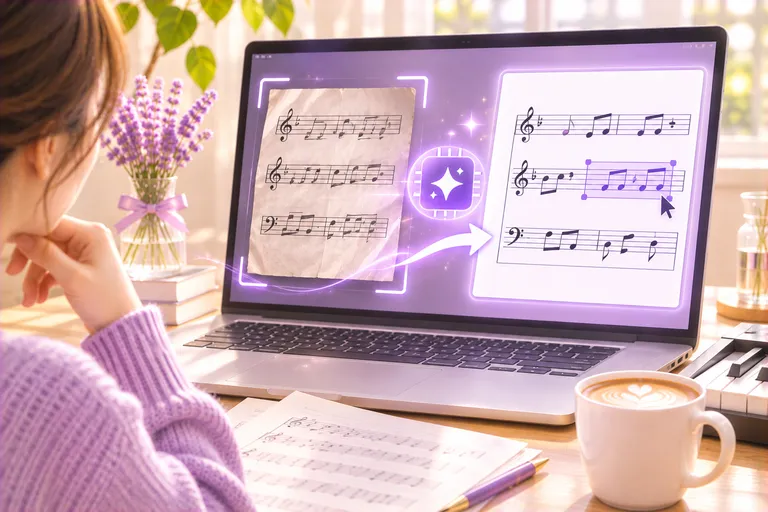
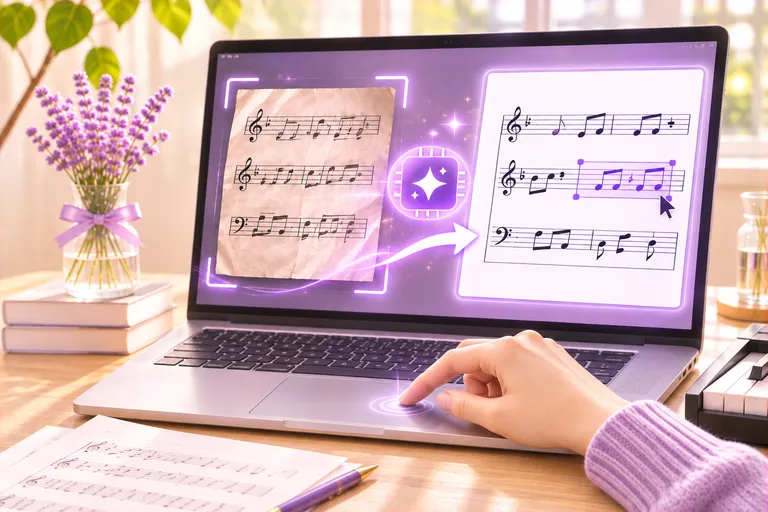
악보 인식·저작권 등록 노트 대표 이미지 다시 교체(?v=1122c) [skip netlify]
Claude-Session: https://claude.ai/code/session_011a17cx1dpy8tGs1Hnq7wi8

diff --git a/index.html b/index.html
@@ -729,7 +729,7 @@ a.note:hover,.note.live:hover{transform:translateY(-2px);border-color:var(--viol
   <div class="notes-bar">
     <div class="note-tabs" role="group" aria-label="노트 분류"></div>
   </div>
-  <div id="noteList"><div class="notes"><article class="note live"><img class="thumb" src="img/note-ai-news-2026-11-3-768.webp?v=1122b" width="768" height="512" loading="lazy" alt="책상 위 여러 기기 화면에 이번 주 AI 소식을 상징하는 아이콘들"><div class="meta"><span class="cat">AI 뉴스 브리핑</span><span>2026.11.23</span></div><h3><a href="notes/ai-news-2026-11-3.html">이번 주 AI 소식 5가지</a></h3><p>2026년 11월 셋째 주, 제미나이 태스크 한국 무료부터 챗GPT 스페이스·라이브 받아쓰기, 모바일 새 화면, 앤트로픽 상장까지 공식 발표 기준으로 정리합니다.</p><div class="foot"><span class="go">노트 읽기 →</span><button type="button" class="more-btn" data-cat="AI 뉴스 브리핑">지난 노트 <b>8</b>편</button></div></article><article class="note live"><img class="thumb" src="img/note-gemini-tasks-free-768.webp?v=1122b" width="768" height="512" loading="lazy" alt="AI 로봇에게 일을 맡기고 쉬는 뒷모습"><div class="meta"><span class="cat">AI 활용 노하우</span><span>2026.11.23</span></div><h3><a href="notes/gemini-tasks-free.html">제미나이 태스크 무료로 쓰는 법, 무엇을 맡길 수 있나</a></h3><p>한국에서도 무료가 된 제미나이 태스크의 조건, 시작 순서, 미국 먼저인 기능, 결제·개인정보 주의점을 정리합니다.</p><div class="foot"><span class="go">노트 읽기 →</span><button type="button" class="more-btn" data-cat="AI 활용 노하우">지난 노트 <b>4</b>편</button></div></article><article class="note live"><img class="thumb" src="img/note-suno-visuals-768.webp?v=1122b" width="768" height="512" loading="lazy" alt="음표가 흘러가 노을 바닷가 영상이 되는 노트북 화면"><div class="meta"><span class="cat">AI 음악 만들기</span><span>2026.11.23</span></div><h3><a href="notes/suno-visuals.html">수노(Suno) Visuals, 내 노래로 15초 영상 만드는 법</a></h3><p>노래로 15초 영상·가사 영상·앨범 아트를 만드는 순서, 따로 드는 Visuals 크레딧과 저작권 장치를 수노 공식 발표 기준으로 정리합니다.</p><div class="foot"><span class="go">노트 읽기 →</span><button type="button" class="more-btn" data-cat="AI 음악 만들기">지난 노트 <b>3</b>편</button></div></article><article class="note live"><img class="thumb" src="img/note-ai-skin-analysis-768.webp?v=1122b" width="768" height="512" loading="lazy" alt="조명에 따라 점수가 달라지는 피부 분석 화면(얼굴은 흐림)"><div class="meta"><span class="cat">뷰티 × AI</span><span>2026.11.23</span></div><h3><a href="notes/ai-skin-analysis.html">AI 피부 분석 앱, 어디까지 믿을 수 있나</a></h3><p>피부 점수가 보는 항목, 식약처 기준으로 본 의료기기와 관리 앱의 경계, 결과가 흔들리는 이유와 잘 쓰는 법을 정리합니다.</p><div class="foot"><span class="go">노트 읽기 →</span><button type="button" class="more-btn" data-cat="뷰티 × AI">지난 노트 <b>3</b>편</button></div></article><article class="note live"><img class="thumb" src="img/note-sheet-music-omr-768.webp?v=1122b" width="768" height="512" loading="lazy" alt="낡은 종이 악보가 AI로 편집 가능한 디지털 악보로 바뀌는 화면"><div class="meta"><span class="cat">반주 · 피아노 × AI</span><span>2026.11.23</span></div><h3><a href="notes/sheet-music-omr.html">PDF 악보를 편집할 수 있는 악보로, AI 악보 인식(OMR) 정리</a></h3><p>뮤즈스코어 PDF 가져오기·오디베리스·플레이스코어 2·사운드슬라이스 비교와 변환 순서, 검수·저작권 주의점을 정리합니다.</p><div class="foot"><span class="go">노트 읽기 →</span><button type="button" class="more-btn" data-cat="반주 · 피아노 × AI">지난 노트 <b>3</b>편</button></div></article><article class="note live"><img class="thumb" src="img/note-ai-copyright-registration-768.webp?v=1122b" width="768" height="512" loading="lazy" alt="AI가 만든 부분은 빠지고 사람이 만든 부분만 등록되는 저작권 등록증"><div class="meta"><span class="cat">AI 시대의 창작과 교육</span><span>2026.11.23</span></div><h3><a href="notes/ai-copyright-registration.html">저작권 등록할 때 AI 사용을 밝히게 된다, 창작자가 알아둘 것</a></h3><p>문체부의 AI 사용 명시 추진과 지금 등록 기준, 사람이 기여한 부분만 보호되는 원칙, 창작 기록 남기는 법을 정리합니다.</p><div class="foot"><span class="go">노트 읽기 →</span><button type="button" class="more-btn" data-cat="AI 시대의 창작과 교육">지난 노트 <b>3</b>편</button></div></article></div><div class="past with-cat" role="region" aria-label="지난 노트"><div class="past-head"><h4><b>지난</b> 노트</h4><span>분야 탭을 누르면 분야별로 모아 볼 수 있습니다</span></div><ol><li><a class="past-row" href="notes/ai-news-2026-11-2.html"><span class="c">AI 뉴스 브리핑</span><span class="t">이번 주 AI 소식 5가지 <span class="s">(11월 둘째 주)</span></span><time>2026.11.16</time></a></li><li><a class="past-row" href="notes/ai-content-festival-2026.html"><span class="c">AI 뉴스 브리핑</span><span class="t">AI 콘텐츠 페스티벌 2026으로 본 AI 창작의 흐름</span><time>2026.11.13</time></a></li><li><a class="past-row" href="notes/ai-news-2026-11-1.html"><span class="c">AI 뉴스 브리핑</span><span class="t">이번 주 AI 소식 5가지 <span class="s">(11월 첫째 주)</span></span><time>2026.11.07</time></a></li><li><a class="past-row" href="notes/gemini-plans-2026.html"><span class="c">AI 활용 노하우</span><span class="t">제미나이 요금제 비교, 11월 13일 이후 무엇을 고를까</span><time>2026.11.07</time></a></li><li><a class="past-row" href="notes/suno-cover-extend.html"><span class="c">AI 음악 만들기</span><span class="t">수노(Suno) 커버·익스텐드, 내 곡을 바꾸고 이어 만드는 법</span><time>2026.11.07</time></a></li><li><a class="past-row" href="notes/ai-virtual-makeup.html"><span class="c">뷰티 × AI</span><span class="t">AI 가상 메이크업 앱, 어디까지 믿을 수 있나</span><time>2026.11.07</time></a></li><li class="more-hidden"><a class="past-row" href="notes/christmas-worship-accompaniment.html"><span class="c">반주 · 피아노 × AI</span><span class="t">성탄 찬양 반주 준비, 코드 진행과 편곡 아이디어</span><time>2026.11.07</time></a></li><li class="more-hidden"><a class="past-row" href="notes/youtube-ai-monetization.html"><span class="c">AI 시대의 창작과 교육</span><span class="t">유튜브 AI 콘텐츠, 수익 정책 어디까지 알아야 하나</span><time>2026.11.07</time></a></li><li class="more-hidden"><a class="past-row" href="notes/robotworld-2026.html"><span class="c">AI 뉴스 브리핑</span><span class="t">로보월드 2026으로 본 휴머노이드·피지컬 AI 5가지</span><time>2026.11.06</time></a></li><li class="more-hidden"><a class="past-row" href="notes/aiot-week-2026.html"><span class="c">AI 뉴스 브리핑</span><span class="t">AIoT 위크 코리아 2026으로 본 피지컬 AI 5가지</span><time>2026.11.03</time></a></li><li class="more-hidden"><a class="past-row" href="notes/ai-news-2026-10-5.html"><span class="c">AI 뉴스 브리핑</span><span class="t">이번 주 AI 소식 5가지 <span class="s">(10월 다섯째 주)</span></span><time>2026.10.31</time></a></li><li class="more-hidden"><a class="past-row" href="notes/pickle-ai-agent.html"><span class="c">AI 활용 노하우</span><span class="t">휴대폰 속 AI 비서 피클, 인스팅트와 무엇이 다른가</span><time>2026.10.31</time></a></li><li class="more-hidden"><a class="past-row" href="notes/ai-news-2026-10-4.html"><span class="c">AI 뉴스 브리핑</span><span class="t">이번 주 AI 소식 5가지 <span class="s">(10월 넷째 주)</span></span><time>2026.10.26</time></a></li><li class="more-hidden"><a class="past-row" href="notes/gemini-gems-to-skills.html"><span class="c">AI 활용 노하우</span><span class="t">제미나이 Gems가 스킬로 바뀐다, 미리 할 일</span><time>2026.10.26</time></a></li><li class="more-hidden"><a class="past-row" href="notes/suno-styles.html"><span class="c">AI 음악 만들기</span><span class="t">수노(Suno) Styles 칸, 이렇게 쓰면 곡이 달라진다</span><time>2026.10.26</time></a></li><li class="more-hidden"><a class="past-row" href="notes/ai-hairstyle-simulation.html"><span class="c">뷰티 × AI</span><span class="t">AI 헤어스타일 시뮬레이션, 미용실 가기 전에 알아 둘 것</span><time>2026.10.26</time></a></li><li class="more-hidden"><a class="past-row" href="notes/worship-transpose.html"><span class="c">반주 · 피아노 × AI</span><span class="t">찬양 반주 조옮김, 트랜스포즈 버튼과 악보 프로그램 쓰는 법</span><time>2026.10.26</time></a></li><li class="more-hidden"><a class="past-row" href="notes/music-education-ai.html"><span class="c">AI 시대의 창작과 교육</span><span class="t">음악 교육 현장의 AI 도구, 지금 어디까지 왔나</span><time>2026.10.26</time></a></li><li class="more-hidden"><a class="past-row" href="notes/ai-news-2026-10-3.html"><span class="c">AI 뉴스 브리핑</span><span class="t">이번 주 AI 소식 5가지 <span class="s">(10월 셋째 주)</span></span><time>2026.10.21</time></a></li><li class="more-hidden"><a class="past-row" href="notes/chatgpt-gemini-claude.html"><span class="c">AI 활용 노하우</span><span class="t">챗GPT·제미나이·클로드, 무엇을 쓸까</span><time>2026.10.21</time></a></li><li class="more-hidden"><a class="past-row" href="notes/suno-lyrics.html"><span class="c">AI 음악 만들기</span><span class="t">수노(Suno) AI로 작사부터 시작하는 법</span><time>2026.10.21</time></a></li><li class="more-hidden"><a class="past-row" href="notes/personal-color.html"><span class="c">뷰티 × AI</span><span class="t">퍼스널컬러 진단, 받기 전에 알아 둘 것과 AI 활용법</span><time>2026.10.21</time></a></li><li class="more-hidden"><a class="past-row" href="notes/worship-chord-progressions.html"><span class="c">반주 · 피아노 × AI</span><span class="t">찬양 반주 코드 진행, 초보가 먼저 익힐 5가지</span><time>2026.10.21</time></a></li><li class="more-hidden"><a class="past-row" href="notes/ai-music-copyright.html"><span class="c">AI 시대의 창작과 교육</span><span class="t">AI로 만든 노래의 저작권, 지금 어디까지 왔나</span><time>2026.10.21</time></a></li></ol><button type="button" class="past-more">지난 노트 18편 더 보기</button></div></div><!--/noteList-->
+  <div id="noteList"><div class="notes"><article class="note live"><img class="thumb" src="img/note-ai-news-2026-11-3-768.webp?v=1122b" width="768" height="512" loading="lazy" alt="책상 위 여러 기기 화면에 이번 주 AI 소식을 상징하는 아이콘들"><div class="meta"><span class="cat">AI 뉴스 브리핑</span><span>2026.11.23</span></div><h3><a href="notes/ai-news-2026-11-3.html">이번 주 AI 소식 5가지</a></h3><p>2026년 11월 셋째 주, 제미나이 태스크 한국 무료부터 챗GPT 스페이스·라이브 받아쓰기, 모바일 새 화면, 앤트로픽 상장까지 공식 발표 기준으로 정리합니다.</p><div class="foot"><span class="go">노트 읽기 →</span><button type="button" class="more-btn" data-cat="AI 뉴스 브리핑">지난 노트 <b>8</b>편</button></div></article><article class="note live"><img class="thumb" src="img/note-gemini-tasks-free-768.webp?v=1122b" width="768" height="512" loading="lazy" alt="AI 로봇에게 일을 맡기고 쉬는 뒷모습"><div class="meta"><span class="cat">AI 활용 노하우</span><span>2026.11.23</span></div><h3><a href="notes/gemini-tasks-free.html">제미나이 태스크 무료로 쓰는 법, 무엇을 맡길 수 있나</a></h3><p>한국에서도 무료가 된 제미나이 태스크의 조건, 시작 순서, 미국 먼저인 기능, 결제·개인정보 주의점을 정리합니다.</p><div class="foot"><span class="go">노트 읽기 →</span><button type="button" class="more-btn" data-cat="AI 활용 노하우">지난 노트 <b>4</b>편</button></div></article><article class="note live"><img class="thumb" src="img/note-suno-visuals-768.webp?v=1122b" width="768" height="512" loading="lazy" alt="음표가 흘러가 노을 바닷가 영상이 되는 노트북 화면"><div class="meta"><span class="cat">AI 음악 만들기</span><span>2026.11.23</span></div><h3><a href="notes/suno-visuals.html">수노(Suno) Visuals, 내 노래로 15초 영상 만드는 법</a></h3><p>노래로 15초 영상·가사 영상·앨범 아트를 만드는 순서, 따로 드는 Visuals 크레딧과 저작권 장치를 수노 공식 발표 기준으로 정리합니다.</p><div class="foot"><span class="go">노트 읽기 →</span><button type="button" class="more-btn" data-cat="AI 음악 만들기">지난 노트 <b>3</b>편</button></div></article><article class="note live"><img class="thumb" src="img/note-ai-skin-analysis-768.webp?v=1122b" width="768" height="512" loading="lazy" alt="조명에 따라 점수가 달라지는 피부 분석 화면(얼굴은 흐림)"><div class="meta"><span class="cat">뷰티 × AI</span><span>2026.11.23</span></div><h3><a href="notes/ai-skin-analysis.html">AI 피부 분석 앱, 어디까지 믿을 수 있나</a></h3><p>피부 점수가 보는 항목, 식약처 기준으로 본 의료기기와 관리 앱의 경계, 결과가 흔들리는 이유와 잘 쓰는 법을 정리합니다.</p><div class="foot"><span class="go">노트 읽기 →</span><button type="button" class="more-btn" data-cat="뷰티 × AI">지난 노트 <b>3</b>편</button></div></article><article class="note live"><img class="thumb" src="img/note-sheet-music-omr-768.webp?v=1122c" width="768" height="512" loading="lazy" alt="낡은 종이 악보가 AI로 편집 가능한 디지털 악보로 바뀌는 노트북 화면"><div class="meta"><span class="cat">반주 · 피아노 × AI</span><span>2026.11.23</span></div><h3><a href="notes/sheet-music-omr.html">PDF 악보를 편집할 수 있는 악보로, AI 악보 인식(OMR) 정리</a></h3><p>뮤즈스코어 PDF 가져오기·오디베리스·플레이스코어 2·사운드슬라이스 비교와 변환 순서, 검수·저작권 주의점을 정리합니다.</p><div class="foot"><span class="go">노트 읽기 →</span><button type="button" class="more-btn" data-cat="반주 · 피아노 × AI">지난 노트 <b>3</b>편</button></div></article><article class="note live"><img class="thumb" src="img/note-ai-copyright-registration-768.webp?v=1122c" width="768" height="512" loading="lazy" alt="AI가 만든 부분은 빠지고 사람이 만든 부분만 등록되는 저작권 등록증"><div class="meta"><span class="cat">AI 시대의 창작과 교육</span><span>2026.11.23</span></div><h3><a href="notes/ai-copyright-registration.html">저작권 등록할 때 AI 사용을 밝히게 된다, 창작자가 알아둘 것</a></h3><p>문체부의 AI 사용 명시 추진과 지금 등록 기준, 사람이 기여한 부분만 보호되는 원칙, 창작 기록 남기는 법을 정리합니다.</p><div class="foot"><span class="go">노트 읽기 →</span><button type="button" class="more-btn" data-cat="AI 시대의 창작과 교육">지난 노트 <b>3</b>편</button></div></article></div><div class="past with-cat" role="region" aria-label="지난 노트"><div class="past-head"><h4><b>지난</b> 노트</h4><span>분야 탭을 누르면 분야별로 모아 볼 수 있습니다</span></div><ol><li><a class="past-row" href="notes/ai-news-2026-11-2.html"><span class="c">AI 뉴스 브리핑</span><span class="t">이번 주 AI 소식 5가지 <span class="s">(11월 둘째 주)</span></span><time>2026.11.16</time></a></li><li><a class="past-row" href="notes/ai-content-festival-2026.html"><span class="c">AI 뉴스 브리핑</span><span class="t">AI 콘텐츠 페스티벌 2026으로 본 AI 창작의 흐름</span><time>2026.11.13</time></a></li><li><a class="past-row" href="notes/ai-news-2026-11-1.html"><span class="c">AI 뉴스 브리핑</span><span class="t">이번 주 AI 소식 5가지 <span class="s">(11월 첫째 주)</span></span><time>2026.11.07</time></a></li><li><a class="past-row" href="notes/gemini-plans-2026.html"><span class="c">AI 활용 노하우</span><span class="t">제미나이 요금제 비교, 11월 13일 이후 무엇을 고를까</span><time>2026.11.07</time></a></li><li><a class="past-row" href="notes/suno-cover-extend.html"><span class="c">AI 음악 만들기</span><span class="t">수노(Suno) 커버·익스텐드, 내 곡을 바꾸고 이어 만드는 법</span><time>2026.11.07</time></a></li><li><a class="past-row" href="notes/ai-virtual-makeup.html"><span class="c">뷰티 × AI</span><span class="t">AI 가상 메이크업 앱, 어디까지 믿을 수 있나</span><time>2026.11.07</time></a></li><li class="more-hidden"><a class="past-row" href="notes/christmas-worship-accompaniment.html"><span class="c">반주 · 피아노 × AI</span><span class="t">성탄 찬양 반주 준비, 코드 진행과 편곡 아이디어</span><time>2026.11.07</time></a></li><li class="more-hidden"><a class="past-row" href="notes/youtube-ai-monetization.html"><span class="c">AI 시대의 창작과 교육</span><span class="t">유튜브 AI 콘텐츠, 수익 정책 어디까지 알아야 하나</span><time>2026.11.07</time></a></li><li class="more-hidden"><a class="past-row" href="notes/robotworld-2026.html"><span class="c">AI 뉴스 브리핑</span><span class="t">로보월드 2026으로 본 휴머노이드·피지컬 AI 5가지</span><time>2026.11.06</time></a></li><li class="more-hidden"><a class="past-row" href="notes/aiot-week-2026.html"><span class="c">AI 뉴스 브리핑</span><span class="t">AIoT 위크 코리아 2026으로 본 피지컬 AI 5가지</span><time>2026.11.03</time></a></li><li class="more-hidden"><a class="past-row" href="notes/ai-news-2026-10-5.html"><span class="c">AI 뉴스 브리핑</span><span class="t">이번 주 AI 소식 5가지 <span class="s">(10월 다섯째 주)</span></span><time>2026.10.31</time></a></li><li class="more-hidden"><a class="past-row" href="notes/pickle-ai-agent.html"><span class="c">AI 활용 노하우</span><span class="t">휴대폰 속 AI 비서 피클, 인스팅트와 무엇이 다른가</span><time>2026.10.31</time></a></li><li class="more-hidden"><a class="past-row" href="notes/ai-news-2026-10-4.html"><span class="c">AI 뉴스 브리핑</span><span class="t">이번 주 AI 소식 5가지 <span class="s">(10월 넷째 주)</span></span><time>2026.10.26</time></a></li><li class="more-hidden"><a class="past-row" href="notes/gemini-gems-to-skills.html"><span class="c">AI 활용 노하우</span><span class="t">제미나이 Gems가 스킬로 바뀐다, 미리 할 일</span><time>2026.10.26</time></a></li><li class="more-hidden"><a class="past-row" href="notes/suno-styles.html"><span class="c">AI 음악 만들기</span><span class="t">수노(Suno) Styles 칸, 이렇게 쓰면 곡이 달라진다</span><time>2026.10.26</time></a></li><li class="more-hidden"><a class="past-row" href="notes/ai-hairstyle-simulation.html"><span class="c">뷰티 × AI</span><span class="t">AI 헤어스타일 시뮬레이션, 미용실 가기 전에 알아 둘 것</span><time>2026.10.26</time></a></li><li class="more-hidden"><a class="past-row" href="notes/worship-transpose.html"><span class="c">반주 · 피아노 × AI</span><span class="t">찬양 반주 조옮김, 트랜스포즈 버튼과 악보 프로그램 쓰는 법</span><time>2026.10.26</time></a></li><li class="more-hidden"><a class="past-row" href="notes/music-education-ai.html"><span class="c">AI 시대의 창작과 교육</span><span class="t">음악 교육 현장의 AI 도구, 지금 어디까지 왔나</span><time>2026.10.26</time></a></li><li class="more-hidden"><a class="past-row" href="notes/ai-news-2026-10-3.html"><span class="c">AI 뉴스 브리핑</span><span class="t">이번 주 AI 소식 5가지 <span class="s">(10월 셋째 주)</span></span><time>2026.10.21</time></a></li><li class="more-hidden"><a class="past-row" href="notes/chatgpt-gemini-claude.html"><span class="c">AI 활용 노하우</span><span class="t">챗GPT·제미나이·클로드, 무엇을 쓸까</span><time>2026.10.21</time></a></li><li class="more-hidden"><a class="past-row" href="notes/suno-lyrics.html"><span class="c">AI 음악 만들기</span><span class="t">수노(Suno) AI로 작사부터 시작하는 법</span><time>2026.10.21</time></a></li><li class="more-hidden"><a class="past-row" href="notes/personal-color.html"><span class="c">뷰티 × AI</span><span class="t">퍼스널컬러 진단, 받기 전에 알아 둘 것과 AI 활용법</span><time>2026.10.21</time></a></li><li class="more-hidden"><a class="past-row" href="notes/worship-chord-progressions.html"><span class="c">반주 · 피아노 × AI</span><span class="t">찬양 반주 코드 진행, 초보가 먼저 익힐 5가지</span><time>2026.10.21</time></a></li><li class="more-hidden"><a class="past-row" href="notes/ai-music-copyright.html"><span class="c">AI 시대의 창작과 교육</span><span class="t">AI로 만든 노래의 저작권, 지금 어디까지 왔나</span><time>2026.10.21</time></a></li></ol><button type="button" class="past-more">지난 노트 18편 더 보기</button></div></div><!--/noteList-->
 </section>
 
 <script>
@@ -739,8 +739,8 @@ a.note:hover,.note.live:hover{transform:translateY(-2px);border-color:var(--viol
 const CATS = ["AI 뉴스 브리핑","AI 활용 노하우","AI 음악 만들기","뷰티 × AI","반주 · 피아노 × AI","AI 시대의 창작과 교육"];
 const NOTES = [
   {cat:"AI 뉴스 브리핑", title:"이번 주 AI 소식 5가지", desc:"2026년 11월 셋째 주, 제미나이 태스크 한국 무료부터 챗GPT 스페이스·라이브 받아쓰기, 모바일 새 화면, 앤트로픽 상장까지 공식 발표 기준으로 정리합니다.", sub:"11월 셋째 주", date:"2026.11.23", url:"notes/ai-news-2026-11-3.html", img:"img/note-ai-news-2026-11-3-768.webp?v=1122b", alt:"책상 위 여러 기기 화면에 이번 주 AI 소식을 상징하는 아이콘들"},
-  {cat:"AI 시대의 창작과 교육", title:"저작권 등록할 때 AI 사용을 밝히게 된다, 창작자가 알아둘 것", desc:"문체부의 AI 사용 명시 추진과 지금 등록 기준, 사람이 기여한 부분만 보호되는 원칙, 창작 기록 남기는 법을 정리합니다.", date:"2026.11.23", url:"notes/ai-copyright-registration.html", img:"img/note-ai-copyright-registration-768.webp?v=1122b", alt:"AI가 만든 부분은 빠지고 사람이 만든 부분만 등록되는 저작권 등록증"},
-  {cat:"반주 · 피아노 × AI", title:"PDF 악보를 편집할 수 있는 악보로, AI 악보 인식(OMR) 정리", desc:"뮤즈스코어 PDF 가져오기·오디베리스·플레이스코어 2·사운드슬라이스 비교와 변환 순서, 검수·저작권 주의점을 정리합니다.", date:"2026.11.23", url:"notes/sheet-music-omr.html", img:"img/note-sheet-music-omr-768.webp?v=1122b", alt:"낡은 종이 악보가 AI로 편집 가능한 디지털 악보로 바뀌는 화면"},
+  {cat:"AI 시대의 창작과 교육", title:"저작권 등록할 때 AI 사용을 밝히게 된다, 창작자가 알아둘 것", desc:"문체부의 AI 사용 명시 추진과 지금 등록 기준, 사람이 기여한 부분만 보호되는 원칙, 창작 기록 남기는 법을 정리합니다.", date:"2026.11.23", url:"notes/ai-copyright-registration.html", img:"img/note-ai-copyright-registration-768.webp?v=1122c", alt:"AI가 만든 부분은 빠지고 사람이 만든 부분만 등록되는 저작권 등록증"},
+  {cat:"반주 · 피아노 × AI", title:"PDF 악보를 편집할 수 있는 악보로, AI 악보 인식(OMR) 정리", desc:"뮤즈스코어 PDF 가져오기·오디베리스·플레이스코어 2·사운드슬라이스 비교와 변환 순서, 검수·저작권 주의점을 정리합니다.", date:"2026.11.23", url:"notes/sheet-music-omr.html", img:"img/note-sheet-music-omr-768.webp?v=1122c", alt:"낡은 종이 악보가 AI로 편집 가능한 디지털 악보로 바뀌는 노트북 화면"},
   {cat:"뷰티 × AI", title:"AI 피부 분석 앱, 어디까지 믿을 수 있나", desc:"피부 점수가 보는 항목, 식약처 기준으로 본 의료기기와 관리 앱의 경계, 결과가 흔들리는 이유와 잘 쓰는 법을 정리합니다.", date:"2026.11.23", url:"notes/ai-skin-analysis.html", img:"img/note-ai-skin-analysis-768.webp?v=1122b", alt:"조명에 따라 점수가 달라지는 피부 분석 화면(얼굴은 흐림)"},
   {cat:"AI 음악 만들기", title:"수노(Suno) Visuals, 내 노래로 15초 영상 만드는 법", desc:"노래로 15초 영상·가사 영상·앨범 아트를 만드는 순서, 따로 드는 Visuals 크레딧과 저작권 장치를 수노 공식 발표 기준으로 정리합니다.", date:"2026.11.23", url:"notes/suno-visuals.html", img:"img/note-suno-visuals-768.webp?v=1122b", alt:"음표가 흘러가 노을 바닷가 영상이 되는 노트북 화면"},
   {cat:"AI 활용 노하우", title:"제미나이 태스크 무료로 쓰는 법, 무엇을 맡길 수 있나", desc:"한국에서도 무료가 된 제미나이 태스크의 조건, 시작 순서, 미국 먼저인 기능, 결제·개인정보 주의점을 정리합니다.", date:"2026.11.23", url:"notes/gemini-tasks-free.html", img:"img/note-gemini-tasks-free-768.webp?v=1122b", alt:"AI 로봇에게 일을 맡기고 쉬는 뒷모습"},

diff --git a/notes/ai-copyright-registration.html b/notes/ai-copyright-registration.html
@@ -143,7 +143,7 @@ if(document.readyState==='complete'){w();}else{addEventListener('load',w);}})();
 </header>
 
 <figure class="hero">
-  <img src="../img/note-ai-copyright-registration.webp?v=1122b" srcset="../img/note-ai-copyright-registration-768.webp?v=1122b 768w, ../img/note-ai-copyright-registration.webp?v=1122b 1536w" sizes="(max-width:760px) 100vw, 760px" width="1536" height="1024" fetchpriority="high" alt="연한 퍼플 니트를 입은 여성이 턱을 괴고 보는 노트북 화면에 AI 로봇이 만든 음파와 사람이 직접 고친 음파가 나뉘어 있고, 그중 사람이 만든 부분만 금색 인장이 찍힌 등록증에 옮겨지는 모습. 책상에 헤드폰, 보라 노트와 펜, 라테, 라벤더 꽃">
+  <img src="../img/note-ai-copyright-registration.webp?v=1122c" srcset="../img/note-ai-copyright-registration-768.webp?v=1122c 768w, ../img/note-ai-copyright-registration.webp?v=1122c 1536w" sizes="(max-width:760px) 100vw, 760px" width="1536" height="1024" fetchpriority="high" alt="원목 책상 위 노트북 화면에 AI 로봇이 만든 음파와 사람이 펜으로 다듬은 음파가 나뉘어 있고, 사람이 만든 부분만 금색 음표 인장이 찍힌 등록증에 옮겨지고 AI 부분은 금지 표시로 빠지는 모습. 옆에 헤드폰, 보라 노트와 펜, 라테, 라벤더 꽃병">
   <figcaption>AI 생성 이미지입니다.</figcaption>
 </figure>
 

diff --git a/notes/sheet-music-omr.html b/notes/sheet-music-omr.html
@@ -143,7 +143,7 @@ if(document.readyState==='complete'){w();}else{addEventListener('load',w);}})();
 </header>
 
 <figure class="hero">
-  <img src="../img/note-sheet-music-omr.webp?v=1122b" srcset="../img/note-sheet-music-omr-768.webp?v=1122b 768w, ../img/note-sheet-music-omr.webp?v=1122b 1536w" sizes="(max-width:760px) 100vw, 760px" width="1536" height="1024" fetchpriority="high" alt="연한 퍼플 니트를 입은 여성이 턱을 괴고 노트북을 보고, 화면 왼쪽의 낡은 종이 악보가 AI 칩을 거쳐 오른쪽의 깔끔하고 고칠 수 있는 디지털 악보로 바뀌는 모습. 책상에 종이 악보, 라테, 건반, 라벤더 꽃">
+  <img src="../img/note-sheet-music-omr.webp?v=1122c" srcset="../img/note-sheet-music-omr-768.webp?v=1122c 768w, ../img/note-sheet-music-omr.webp?v=1122c 1536w" sizes="(max-width:760px) 100vw, 760px" width="1536" height="1024" fetchpriority="high" alt="원목 책상 위 노트북 화면에서 왼쪽의 낡은 종이 악보가 AI 칩을 거쳐 오른쪽의 깔끔하고 고칠 수 있는 디지털 악보로 바뀌고, 연한 퍼플 니트 소매의 손가락이 터치패드를 누르는 모습. 옆에 라벤더 꽃병, 책, 종이 악보와 펜, 건반">
   <figcaption>AI 생성 이미지입니다.</figcaption>
 </figure>
 
